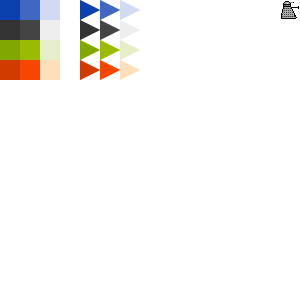
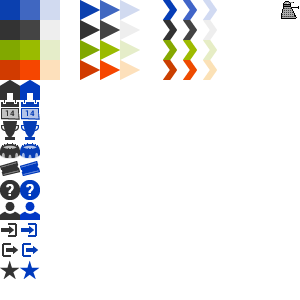
Creating an improved sis page because Leif was angry at himself. It isn't complete yet. Missing Footer. Will integrate into SIS soon.

Changed region(s): [[0.0, 0.27, 0.15, 0.93], [0.54, 0.0, 0.72, 0.27]]

diff --git a/mocks/sis/version2/style.css b/mocks/sis/version2/style.css
@@ -197,6 +197,27 @@ script {
 	background-position: 0px 0px;
 }
 
+#menu div.icon.homepage 		{background-position: 0px -80px;}
+#menu div.icon.calendar 		{background-position: 0px -100px;}
+#menu div.icon.tournaments 		{background-position: 0px -120px;}
+#menu div.icon.matches 			{background-position: 0px -140px;}
+#menu div.icon.tickets 			{background-position: 0px -160px;}
+#menu div.icon.help 			{background-position: 0px -180px;}
+#menu div.icon.account 			{background-position: 0px -200px;}
+#menu div.icon.signin 			{background-position: 0px -220px;}
+#menu div.icon.signout 			{background-position: 0px -240px;}
+#menu div.icon.register 		{background-position: 0px -260px;}
+
+#menu a:hover div.icon.homepage 	,#menu a.selected div.icon.homepage 	{background-position: -20px -80px;}
+#menu a:hover div.icon.calendar 	,#menu a.selected div.icon.calendar		{background-position: -20px -100px;}
+#menu a:hover div.icon.tournaments 	,#menu a.selected div.icon.tournaments	{background-position: -20px -120px;}
+#menu a:hover div.icon.matches 		,#menu a.selected div.icon.matches		{background-position: -20px -140px;}
+#menu a:hover div.icon.tickets 		,#menu a.selected div.icon.tickets		{background-position: -20px -160px;}
+#menu a:hover div.icon.help 		,#menu a.selected div.icon.help			{background-position: -20px -180px;}
+#menu a:hover div.icon.account 		,#menu a.selected div.icon.account		{background-position: -20px -200px;}
+#menu a:hover div.icon.signin 		,#menu a.selected div.icon.signin		{background-position: -20px -220px;}
+#menu a:hover div.icon.signout 		,#menu a.selected div.icon.signout		{background-position: -20px -240px;}
+#menu a:hover div.icon.register 	,#menu a.selected div.icon.register		{background-position: -20px -260px;}
 
 
 
@@ -296,18 +317,9 @@ script {
 	display: block;
 }
 #content select {
-	/*line-height: 40px;*/
 	font-size: 16px;
 	font-family: inherit;
 	display: inline-block;
-	/*height: 40px;*/
-	/*padding: 10px;*/
-	/*padding-left: 20px;*/
-	/*padding-right: 20px;*/
-	/*margin: 0px;*/
-	/*border: none;*/
-	/*background: #FFFFFF;*/
-	/*box-shadow: inset 0px 0px 1px rgba(0,0,0,0.6), inset 0px 1px 2px rgba(0,0,0,0.6);*/
 }
 #content textarea {
 	line-height: 20px;
@@ -615,7 +627,39 @@ script {
 	background: #EEE;
 }
 #footer-block {
-	
+	letter-spacing:-4px;
+	vertical-align: top;
+}
+#footer-legal {
+	letter-spacing: 0px;
+	width:340px;
+	display: inline-block;
+	position: relative;
+	top:5px;
+	vertical-align: top;
+}
+#footer-links {
+	letter-spacing: 0px;
+	vertical-align: middle;
+	width:340px;
+	display: inline-block;
+	margin-left: 20px;
+	position: relative;
+	top:5px;
+}
+#footer-powered {
+	vertical-align: middle;
+	margin-left: 20px;
+	display: inline-block;
+	width:160px;
+}
+#footer-powered .company-logo{
+	margin: auto auto;
+	vertical-align: middle;
+	width:99px;
+	height:33px;
+	background-image:url('http://infusionsports.co.uk/img/hwsports/logo/is.medium.png');
+	opacity: 0.8;
 }
 
 
@@ -631,16 +675,16 @@ div.icon {
 	display: inline-block;
 }
 
-div.icon.block-black-light 	{background-position: -40px -20px;}
+div.icon.block-black-light 		{background-position: -40px -20px;}
 div.icon.block-black-medium 	{background-position: -20px -20px;}
-div.icon.block-black-dark 	{background-position: 0px -20px;}
+div.icon.block-black-dark 		{background-position: 0px -20px;}
 
-div.icon.block-blue-light 	{background-position: -40px 0px;}
-div.icon.block-blue-medium 	{background-position: -20px 0px;}
+div.icon.block-blue-light 		{background-position: -40px 0px;}
+div.icon.block-blue-medium 		{background-position: -20px 0px;}
 div.icon.block-blue-dark 		{background-position: 0px 0px;}
 
 div.icon.block-white		 	{background-position: -60px -20px;}
-div.icon.arrow-right-white		 	{background-position: -140px -20px;}
+div.icon.arrow-right-white			{background-position: -140px -20px;}
 
 div.icon.arrow-right-black-light 	{background-position: -120px -20px;}
 div.icon.arrow-right-black-gray 	{background-position: -100px -20px;}

diff --git a/mocks/sis/version2/index.html b/mocks/sis/version2/index.html
@@ -77,16 +77,16 @@
 				<div id="middle-block">
 					<div id="menu">
 						<ul>
-							<a href="/" title="Return to the Homepage"><li><div class="icon block-black-dark"></div>Homepage</li></a>
-							<a href="/" title="View upcoming tournaments and events on the calendar"><li><div class="icon block-black-dark"></div>Calendar</li></a>
-							<a href="/" title="List of all tournaments" class="selected"><li><div class="icon block-black-dark"></div>Tournaments</li></a>
-							<a href="/" title="List of most recent matches"><li><div class="icon block-black-dark"></div>Matches</li></a>
-							<a href="/" title="Ticket information"><li><div class="icon block-black-dark"></div>Tickets</li></a>
-							<a href="/" title="Help"><li><div class="icon block-black-dark"></div>Help</li></a>
+							<a href="/" title="Return to the Homepage"><li><div class="icon homepage"></div>Homepage</li></a>
+							<a href="/" title="View upcoming tournaments and events on the calendar"><li><div class="icon calendar"></div>Calendar</li></a>
+							<a href="/" title="List of all tournaments" class="selected"><li><div class="icon tournaments"></div>Tournaments</li></a>
+							<a href="/" title="List of most recent matches"><li><div class="icon matches"></div>Matches</li></a>
+							<a href="/" title="Ticket information"><li><div class="icon tickets"></div>Tickets</li></a>
+							<a href="/" title="Help"><li><div class="icon help"></div>Help</li></a>
 						</ul>
 						<ul>
-							<a href="/" title="Register an account"><li><div class="icon block-black-dark"></div>Register</li></a>
-							<a href="/" title="Sign into an account"><li><div class="icon block-black-dark"></div>Sign In</li></a>
+							<a href="/" title="Register an account"><li><div class="icon register"></div>Register</li></a>
+							<a href="/" title="Sign into an account"><li><div class="icon signin"></div>Sign In</li></a>
 						</ul>
 					</div>
 					<div id="content">
@@ -571,8 +571,17 @@
 			<div id="footer">
 				<div id="footer-block">
 					<div id="footer-legal">
+						<h3>Contact Us</h3>
 						<p>&copy; Heriot-Watt University, Edinburgh, Scotland, UK EH14 4AS</p>
 						<p>Tel: +44 (0) 131 449 5111, Scottish registered charity number: SC000278</p>
+					</div>
+					<div id="footer-links">
+						<h3>Links</h3>
+						<p><a href="#">Heriot Watt University Homepage</a></p>
+						<p><a href="#">Some other footer nonsense</a></p>
+						<p><a href="#">Hopefully we will fix this</a></p>
+						<p><a href="#">Privicy Policy</a></p>
+						<p><a href="#">About InfusionSports</a></p>
 					</div>
 					<div id="footer-powered">
 						<a href="http://www.infusionsystems.co.uk"><div class="company-logo"></div>
